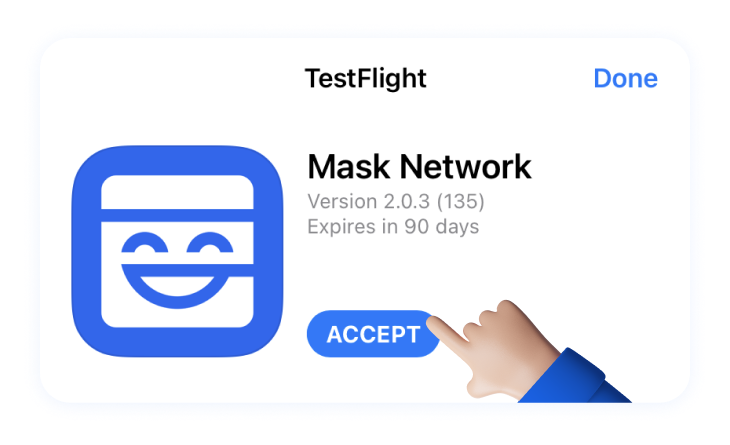
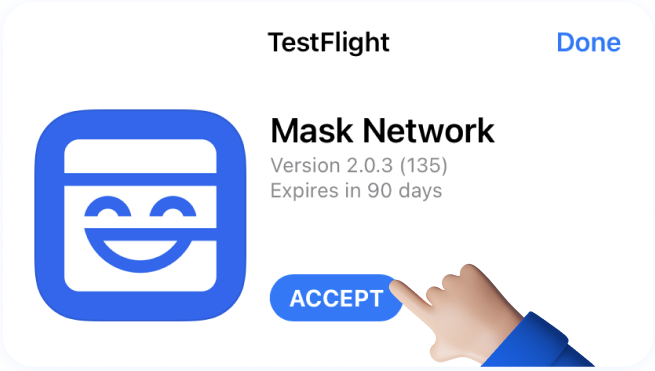
fix: style fix

diff --git a/src/pages/tf-docs.tsx b/src/pages/tf-docs.tsx
@@ -8,12 +8,12 @@ import InstallImg from "../images/install.png";
 import OpenImg from "../images/open.png";
 import { SEO } from "../components/SEO";
 
-const StepClassName = "text-blue-mask text-2xl font-bold mt-12 mb-4";
+const StepClassName = "text-blue-mask text-2xl font-bold mt-16 mb-5";
 const ArrowDownClassName = "mx-2";
 const BtnGuideTextClassName =
-  "flex items-center justify-center text-base font-bold";
+  "flex items-center justify-center text-base font-bold mb-1";
 const InfoClassName = "max-w-infoMax text-center mt-10 mx-auto";
-const ImgContainer = "max-w-imgMax mx-auto";
+const ImgContainer = "max-w-imgMax mx-auto my-2";
 
 const Step1Render = () => {
   return (
@@ -29,7 +29,7 @@ const Step1Render = () => {
         className="flex justify-center"
         rel="noreferrer"
       >
-        <img style={{ width: "50%" }} src={DownloadTestFlightImg} alt="" />
+        <img style={{ width: "200px" }} src={DownloadTestFlightImg} alt="" />
       </a>
       <div className={InfoClassName}>
         If you already have TestFlight, please scroll down to Step 2
@@ -51,7 +51,7 @@ const Step2Render = () => {
         className="flex justify-center "
         rel="noreferrer"
       >
-        <img style={{ width: "50%" }} src={DownloadMaskImg} alt="" />
+        <img style={{ width: "200px" }} src={DownloadMaskImg} alt="" />
       </a>
       <div className={InfoClassName}>
         In TestFlight, click the “<strong>Accept</strong>” button and then the "
@@ -69,7 +69,7 @@ const Step2Render = () => {
 
 const Step3Render = () => {
   return (
-    <div>
+    <div className="pb-16">
       <div className={StepClassName}>Step 3</div>
 
       <div className={InfoClassName}>

diff --git a/tailwind.config.js b/tailwind.config.js
@@ -82,7 +82,7 @@ module.exports = {
         "1/3": "33vw",
         800: "800px",
         half: "50%",
-        infoMax: "285px",
+        infoMax: "292px",
         imgMax: "325px",
       },
       maxHeight: {
